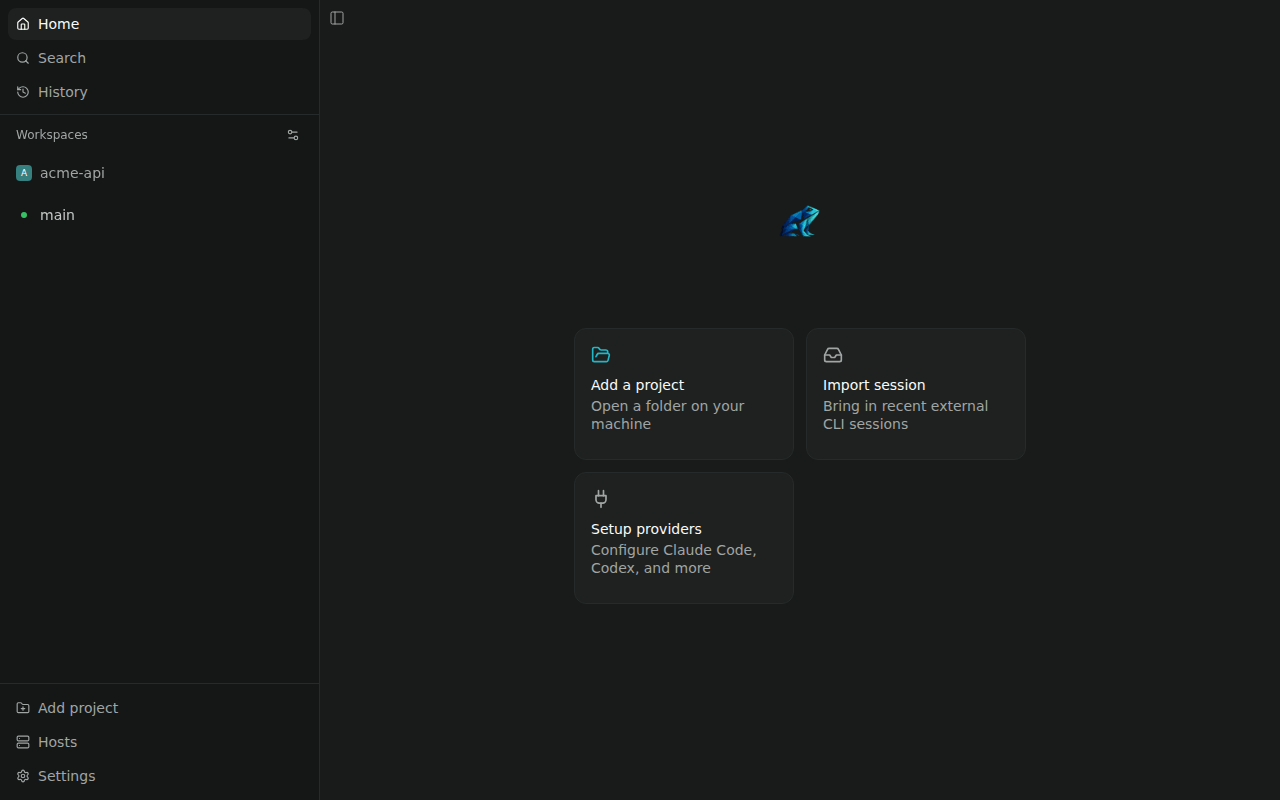
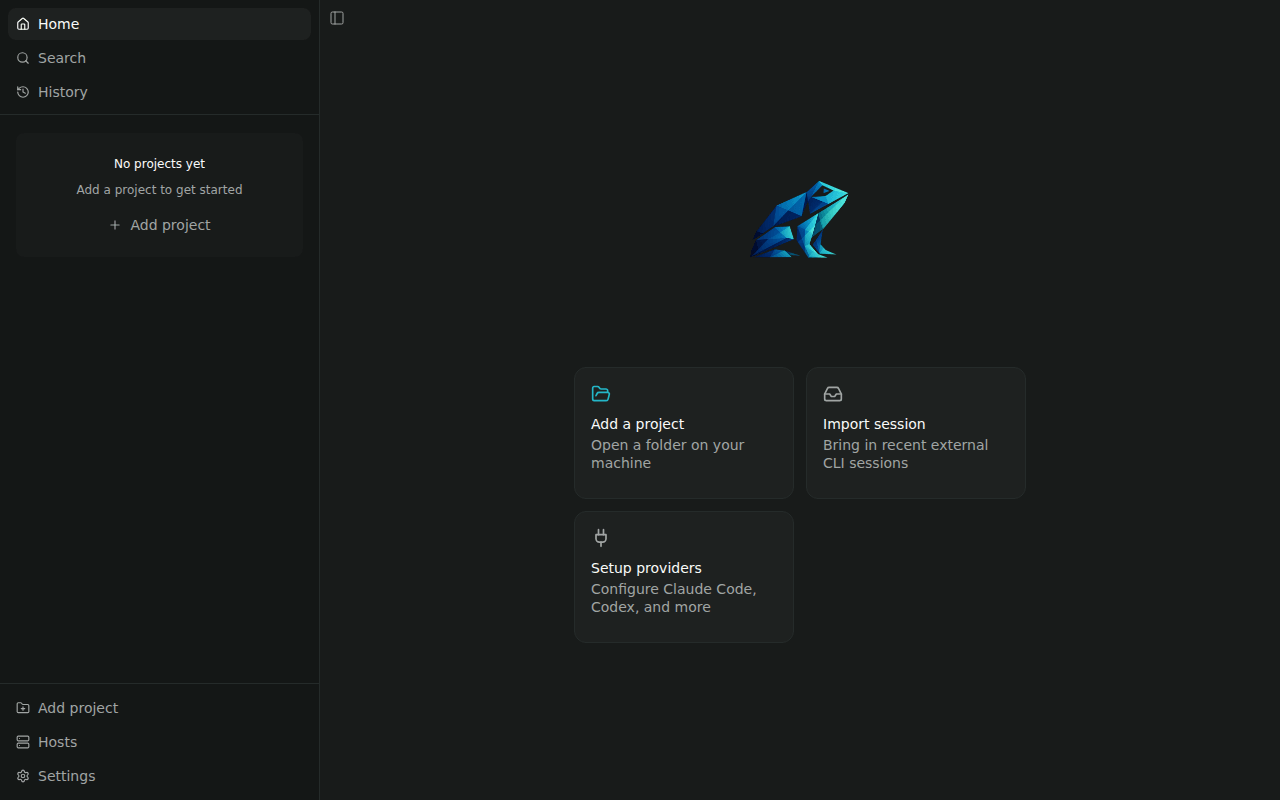
fix(desktop): enlarge brand marks and finish window chrome polish

diff --git a/apps/ui/src/screens/workspace/explorer-sidebar.tsx b/apps/ui/src/screens/workspace/explorer-sidebar.tsx
@@ -1,6 +1,7 @@
 import { useCallback, useMemo, type ReactNode } from "react";
 import { View } from "react-native";
 import { StyleSheet } from "react-native-unistyles";
+import { PaneToolbarAccessoryProvider } from "@/components/ui/pane-content-toolbar";
 import { RetainedPanel } from "@/components/retained-panel";
 import {
   TITLEBAR_DRAG_SURFACE_DATASET,
@@ -16,6 +17,14 @@ import type { WorkspaceTabDescriptor } from "@/screens/workspace/workspace-tabs-
 import type { SplitPane } from "@/stores/workspace-layout-store";
 import type { WorkspaceTab } from "@/workspace-tabs/model";
 import { WindowChromeRegion, WindowChromeSafeArea } from "@/utils/desktop-window";
+
+/** Panels whose primary toolbar renders the sidebar close toggle itself. */
+const PANEL_KINDS_WITH_TOOLBAR_ACCESSORY = new Set<WorkspaceTabDescriptor["target"]["kind"]>([
+  "files",
+  "changes_tree",
+  "working_diff",
+  "pull_request",
+]);
 
 interface ExplorerSidebarDockProps {
   pane: SplitPane;
@@ -83,6 +92,11 @@ export function ExplorerSidebarDock({
     [onReorderTabsInPane, pane.id],
   );
 
+  const activeTab = tabs.find((tab) => tab.tabId === activeTabId);
+  const toolbarOwnsHeaderAction = activeTab
+    ? PANEL_KINDS_WITH_TOOLBAR_ACCESSORY.has(activeTab.target.kind)
+    : false;
+
   return (
     <RetainedPanel active>
       <WindowChromeRegion corners="top-right">
@@ -107,21 +121,23 @@ export function ExplorerSidebarDock({
               onCreateNewTab={onCreateNewTab}
               onMoveTabToMain={onMoveTabToMain}
               onReorderTabs={handleReorderTabs}
-              trailingAccessory={headerAction}
+              trailingAccessory={toolbarOwnsHeaderAction ? null : headerAction}
             />
             <View pointerEvents="none" style={styles.tabRailDivider} />
           </WindowChromeSafeArea>
           <View style={styles.content}>
-            <WorkspacePanelHost
-              paneId={pane.id}
-              tabs={tabs}
-              activeTabId={activeTabId}
-              normalizedServerId={normalizedServerId}
-              normalizedWorkspaceId={normalizedWorkspaceId}
-              isWorkspaceFocused={isWorkspaceFocused}
-              isPaneFocused
-              buildPaneContentModel={buildPaneContentModel}
-            />
+            <PaneToolbarAccessoryProvider accessory={headerAction}>
+              <WorkspacePanelHost
+                paneId={pane.id}
+                tabs={tabs}
+                activeTabId={activeTabId}
+                normalizedServerId={normalizedServerId}
+                normalizedWorkspaceId={normalizedWorkspaceId}
+                isWorkspaceFocused={isWorkspaceFocused}
+                isPaneFocused
+                buildPaneContentModel={buildPaneContentModel}
+              />
+            </PaneToolbarAccessoryProvider>
           </View>
         </View>
       </WindowChromeRegion>

diff --git a/apps/ui/src/screens/workspace/workspace-explorer-toggle.tsx b/apps/ui/src/screens/workspace/workspace-explorer-toggle.tsx
@@ -7,6 +7,7 @@ import {
   iconButtonChromeGlyphSize,
   mutedIconColorMapping,
 } from "@/components/ui/icon-button-chrome";
+import { paneContentToolbarIconSize, ToolbarButton } from "@/components/ui/pane-content-toolbar";
 import type { ShortcutKey } from "@/utils/format-shortcut";
 
 const ThemedPanelRight = withUnistyles(PanelRight);
@@ -114,19 +115,34 @@ export function WorkspaceHeaderExplorerToggle({
   );
 }
 
+/**
+ * The open sidebar's close toggle. It lives in the hosted panel's toolbar, so it
+ * uses toolbar chrome rather than the window-header button.
+ */
 export function WorkspaceExplorerSidebarToggle({
   owner,
+  onPress,
+  label,
+  tooltipLabel,
+  tooltipKeys,
   accessibilityState,
-  ...toggleProps
 }: DesktopWorkspaceExplorerToggleProps) {
   if (!shouldShowSidebarExplorerToggle({ owner, expanded: accessibilityState.expanded })) {
     return null;
   }
   return (
-    <WorkspaceExplorerToggle
-      {...toggleProps}
-      accessibilityState={accessibilityState}
-      mobile={false}
-    />
+    <ToolbarButton
+      testID="workspace-explorer-toggle"
+      label={tooltipLabel}
+      accessibilityHint={label}
+      shortcut={[tooltipKeys]}
+      onPress={onPress}
+    >
+      <ThemedPanelRight
+        size={paneContentToolbarIconSize(false)}
+        strokeWidth={1.5}
+        uniProps={extraMutedIconColorMapping}
+      />
+    </ToolbarButton>
   );
 }

diff --git a/apps/ui/src/utils/desktop-window.tsx b/apps/ui/src/utils/desktop-window.tsx
@@ -33,6 +33,7 @@ type WindowChromeSafeAreaStyle = { height: number } | { paddingLeft: number; pad
 const EMPTY_OBSTRUCTION: WindowChromeObstruction = { topLeft: null, topRight: null };
 const WindowChromeContext = createContext<WindowChromeObstruction>(EMPTY_OBSTRUCTION);
 const WindowChromeCornersContext = createContext<WindowChromeCorners>("none");
+const WindowDragSurfaceContext = createContext(true);
 const DesktopWindowChromeContext = createContext<{
   mode: DesktopWindowChromeMode | null;
   isFullscreen: boolean;
@@ -276,6 +277,21 @@ export function WindowChromeRootRegion({
       {children}
     </WindowChromeCornersContext.Provider>
   );
+}
+
+/**
+ * Marks a subtree that floats above the window (e.g. a modal card) so headers
+ * inside it stop acting as a title bar. Corner ownership is a separate question:
+ * a header that owns no corner (both sidebars open) still drags the window.
+ */
+export function NoWindowDragRegion({ children }: { children: ReactNode }) {
+  return (
+    <WindowDragSurfaceContext.Provider value={false}>{children}</WindowDragSurfaceContext.Provider>
+  );
+}
+
+export function useIsWindowDragSurface(): boolean {
+  return useContext(WindowDragSurfaceContext);
 }
 
 export function useWindowChromeCorners(): WindowChromeCorners {

diff --git a/apps/ui/src/components/ui/pane-content-toolbar.tsx b/apps/ui/src/components/ui/pane-content-toolbar.tsx
@@ -1,4 +1,4 @@
-import { useMemo, type ReactNode } from "react";
+import { createContext, useContext, useMemo, type ReactNode } from "react";
 import {
   Text,
   View,
@@ -19,6 +19,33 @@ import {
   smallIconButtonChromeFrameSize,
 } from "@/components/ui/icon-button-chrome";
 import { WORKSPACE_PANE_TRAILING_GLYPH_RAIL } from "@/components/tree-primitives";
+
+const PaneToolbarAccessoryContext = createContext<ReactNode>(null);
+
+/**
+ * Lets a pane host (the open explorer sidebar) hand its close toggle to the
+ * primary toolbar of whatever panel it hosts, so the control sits in the
+ * panel instead of beside the window controls.
+ */
+export function PaneToolbarAccessoryProvider({
+  accessory,
+  children,
+}: {
+  accessory: ReactNode;
+  children: ReactNode;
+}) {
+  return (
+    <PaneToolbarAccessoryContext.Provider value={accessory}>
+      {children}
+    </PaneToolbarAccessoryContext.Provider>
+  );
+}
+
+/** Renders the host accessory at the trailing end of a panel's primary toolbar. */
+export function PaneToolbarAccessory() {
+  const accessory = useContext(PaneToolbarAccessoryContext);
+  return accessory ?? null;
+}
 
 /** Shared chrome at the boundary between a workspace pane's tabs and content. */
 export function PaneContentToolbar({

diff --git a/apps/ui/src/settings-modal/host.tsx b/apps/ui/src/settings-modal/host.tsx
@@ -9,7 +9,7 @@ import { buildSettingsViewRoute, resolveSettingsScope } from "@/navigation/setti
 import { useHosts } from "@/runtime/host-runtime";
 import SettingsScreen from "@/screens/settings-screen";
 import { useSettingsModalStore } from "@/settings-modal/store";
-import { WindowChromeRegion } from "@/utils/desktop-window";
+import { NoWindowDragRegion, WindowChromeRegion } from "@/utils/desktop-window";
 
 const SETTINGS_MODAL_MAX_WIDTH = 1100;
 const SETTINGS_MODAL_MAX_HEIGHT = 760;
@@ -66,9 +66,11 @@ export function SettingsModalHost() {
       {view ? (
         // The modal floats clear of the window controls, so the section
         // header inside it must not reserve clearance for them.
-        <WindowChromeRegion corners="none">
-          <SettingsScreen view={view} openAddHostIntent={openAddHostIntent} />
-        </WindowChromeRegion>
+        <NoWindowDragRegion>
+          <WindowChromeRegion corners="none">
+            <SettingsScreen view={view} openAddHostIntent={openAddHostIntent} />
+          </WindowChromeRegion>
+        </NoWindowDragRegion>
       ) : null}
     </AdaptiveModalSheet>
   );

diff --git a/apps/ui/src/components/headers/screen-header.tsx b/apps/ui/src/components/headers/screen-header.tsx
@@ -9,7 +9,7 @@ import {
   HEADER_TOP_PADDING_MOBILE,
   useIsCompactFormFactor,
 } from "@/constants/layout";
-import { WindowChromeSafeArea, useWindowChromeCorners } from "@/utils/desktop-window";
+import { WindowChromeSafeArea, useIsWindowDragSurface } from "@/utils/desktop-window";
 import {
   TITLEBAR_DRAG_SURFACE_DATASET,
   TitlebarDragRegion,
@@ -52,8 +52,10 @@ export function ScreenHeader({
   const rightCombinedStyle = useMemo(() => [styles.right, rightStyle], [rightStyle]);
   // A header that sits under the window's top edge stands in for the title bar,
   // so pressing anywhere on it (text included) drags the window. Headers inside
-  // a modal (`WindowChromeRegion corners="none"`) are not part of the chrome.
-  const isWindowChromeHeader = useWindowChromeCorners() !== "none";
+  // a modal (`NoWindowDragRegion`) are not part of the chrome. This must not key
+  // off corner ownership: with both sidebars open the header owns no corner but
+  // is still the top bar.
+  const isWindowChromeHeader = useIsWindowDragSurface();
 
   return (
     <View

diff --git a/apps/ui/src/git/diff-pane.tsx b/apps/ui/src/git/diff-pane.tsx
@@ -78,6 +78,7 @@ import { LoadingSpinner } from "@/components/ui/loading-spinner";
 import { Button } from "@/components/ui/button";
 import {
   PaneContentToolbar,
+  PaneToolbarAccessory,
   paneContentToolbarIconSize,
   paneContentToolbarIconButtonStyle,
   paneContentToolbarTrailingPadding,
@@ -572,6 +573,7 @@ function ChangesDiffOnlyToolbar({
       <ChangesToolbarLeading />
       <ChangesToolbarTrailing>
         <ChangesToolbarActions mode={mode} compact={compact} />
+        <PaneToolbarAccessory />
       </ChangesToolbarTrailing>
     </ChangesToolbarRow>
   );
@@ -644,6 +646,7 @@ function ChangesRepositoryToolbar({
           </>
         ) : null}
         {model.gitActions ? <GitActionsSplitButton gitActions={model.gitActions} menuOnly /> : null}
+        <PaneToolbarAccessory />
       </ChangesToolbarTrailing>
     </ChangesToolbarRow>
   );

diff --git a/apps/ui/src/git/pull-request-panel/pane.tsx b/apps/ui/src/git/pull-request-panel/pane.tsx
@@ -39,6 +39,7 @@ import { isNative } from "@/constants/platform";
 import { useIsCompactFormFactor } from "@/constants/layout";
 import {
   PaneContentToolbar,
+  PaneToolbarAccessory,
   paneContentToolbarIconSize,
   paneContentToolbarIconButtonStyle,
 } from "@/components/ui/pane-content-toolbar";
@@ -522,6 +523,7 @@ export function PullRequestPane({
               </View>
             </Pressable>
           ) : null}
+          <PaneToolbarAccessory />
         </PaneContentToolbar>
 
         <Pressable onPress={handleOpenPrUrl} style={styles.header}>

diff --git a/apps/ui/src/components/file-explorer-pane.tsx b/apps/ui/src/components/file-explorer-pane.tsx
@@ -40,6 +40,7 @@ import {
 import { LoadingSpinner } from "@/components/ui/loading-spinner";
 import {
   PaneContentToolbar,
+  PaneToolbarAccessory,
   paneContentToolbarIconSize,
   paneContentToolbarTrailingPadding,
   ToolbarButton,
@@ -1308,6 +1309,7 @@ function FileExplorerPaneContent(props: FileExplorerPaneContentProps) {
               )}
             </View>
           </ToolbarButton>
+          <PaneToolbarAccessory />
         </ToolbarControls>
       </PaneContentToolbar>
       <ContextMenu>

diff --git a/apps/ui/src/screens/open-project-screen.tsx b/apps/ui/src/screens/open-project-screen.tsx
@@ -91,7 +91,7 @@ export function OpenProjectScreen() {
       <View style={styles.content}>
         <TitlebarDragRegion />
         <View style={styles.logo}>
-          <BrandLogo size={52} />
+          <BrandLogo size={130} />
         </View>
         <View style={styles.tiles}>
           <HomeTile

diff --git a/CHANGELOG.md b/CHANGELOG.md
@@ -2,6 +2,13 @@
 
 ## Unreleased
 
+- Keep window headers draggable with both sidebars open, exclude settings-modal
+  headers from dragging, and place the explorer close toggle in its panel toolbar.
+- Use Windows separators for generated NSIS includes and installer bitmap paths.
+
+- Enlarge the home-screen logo 2.5× and remove excess padding from desktop taskbar
+  and dock icons, keeping a small transparent margin to prevent clipping.
+
 - Rename the product from FDE to Frogg everywhere: the `frogg` binary and daemon commands,
   `@frogg/*` packages, `FROGG_*` environment variables, `~/.frogg` home, `frogg.json`,
   the `frogg://` scheme, the `app.frogg.frogg` application id and all artifact names.

diff --git a/ROADMAP.md b/ROADMAP.md
@@ -7,6 +7,9 @@ namespace migration. Unchecked items are validation/backlog work, not active tas
 
 ## Implemented baseline
 
+- Larger home-screen and desktop taskbar marks. Generated icon bounds are checked;
+  installed Windows/macOS/Linux visual acceptance remains separate.
+
 - Session-only sidebar entries resume unfinished new-workspace forms with their
   input and selections. Pending submissions survive navigation; failures can be
   retried and successful handoffs remove the entry. Browser/daemon coverage is
